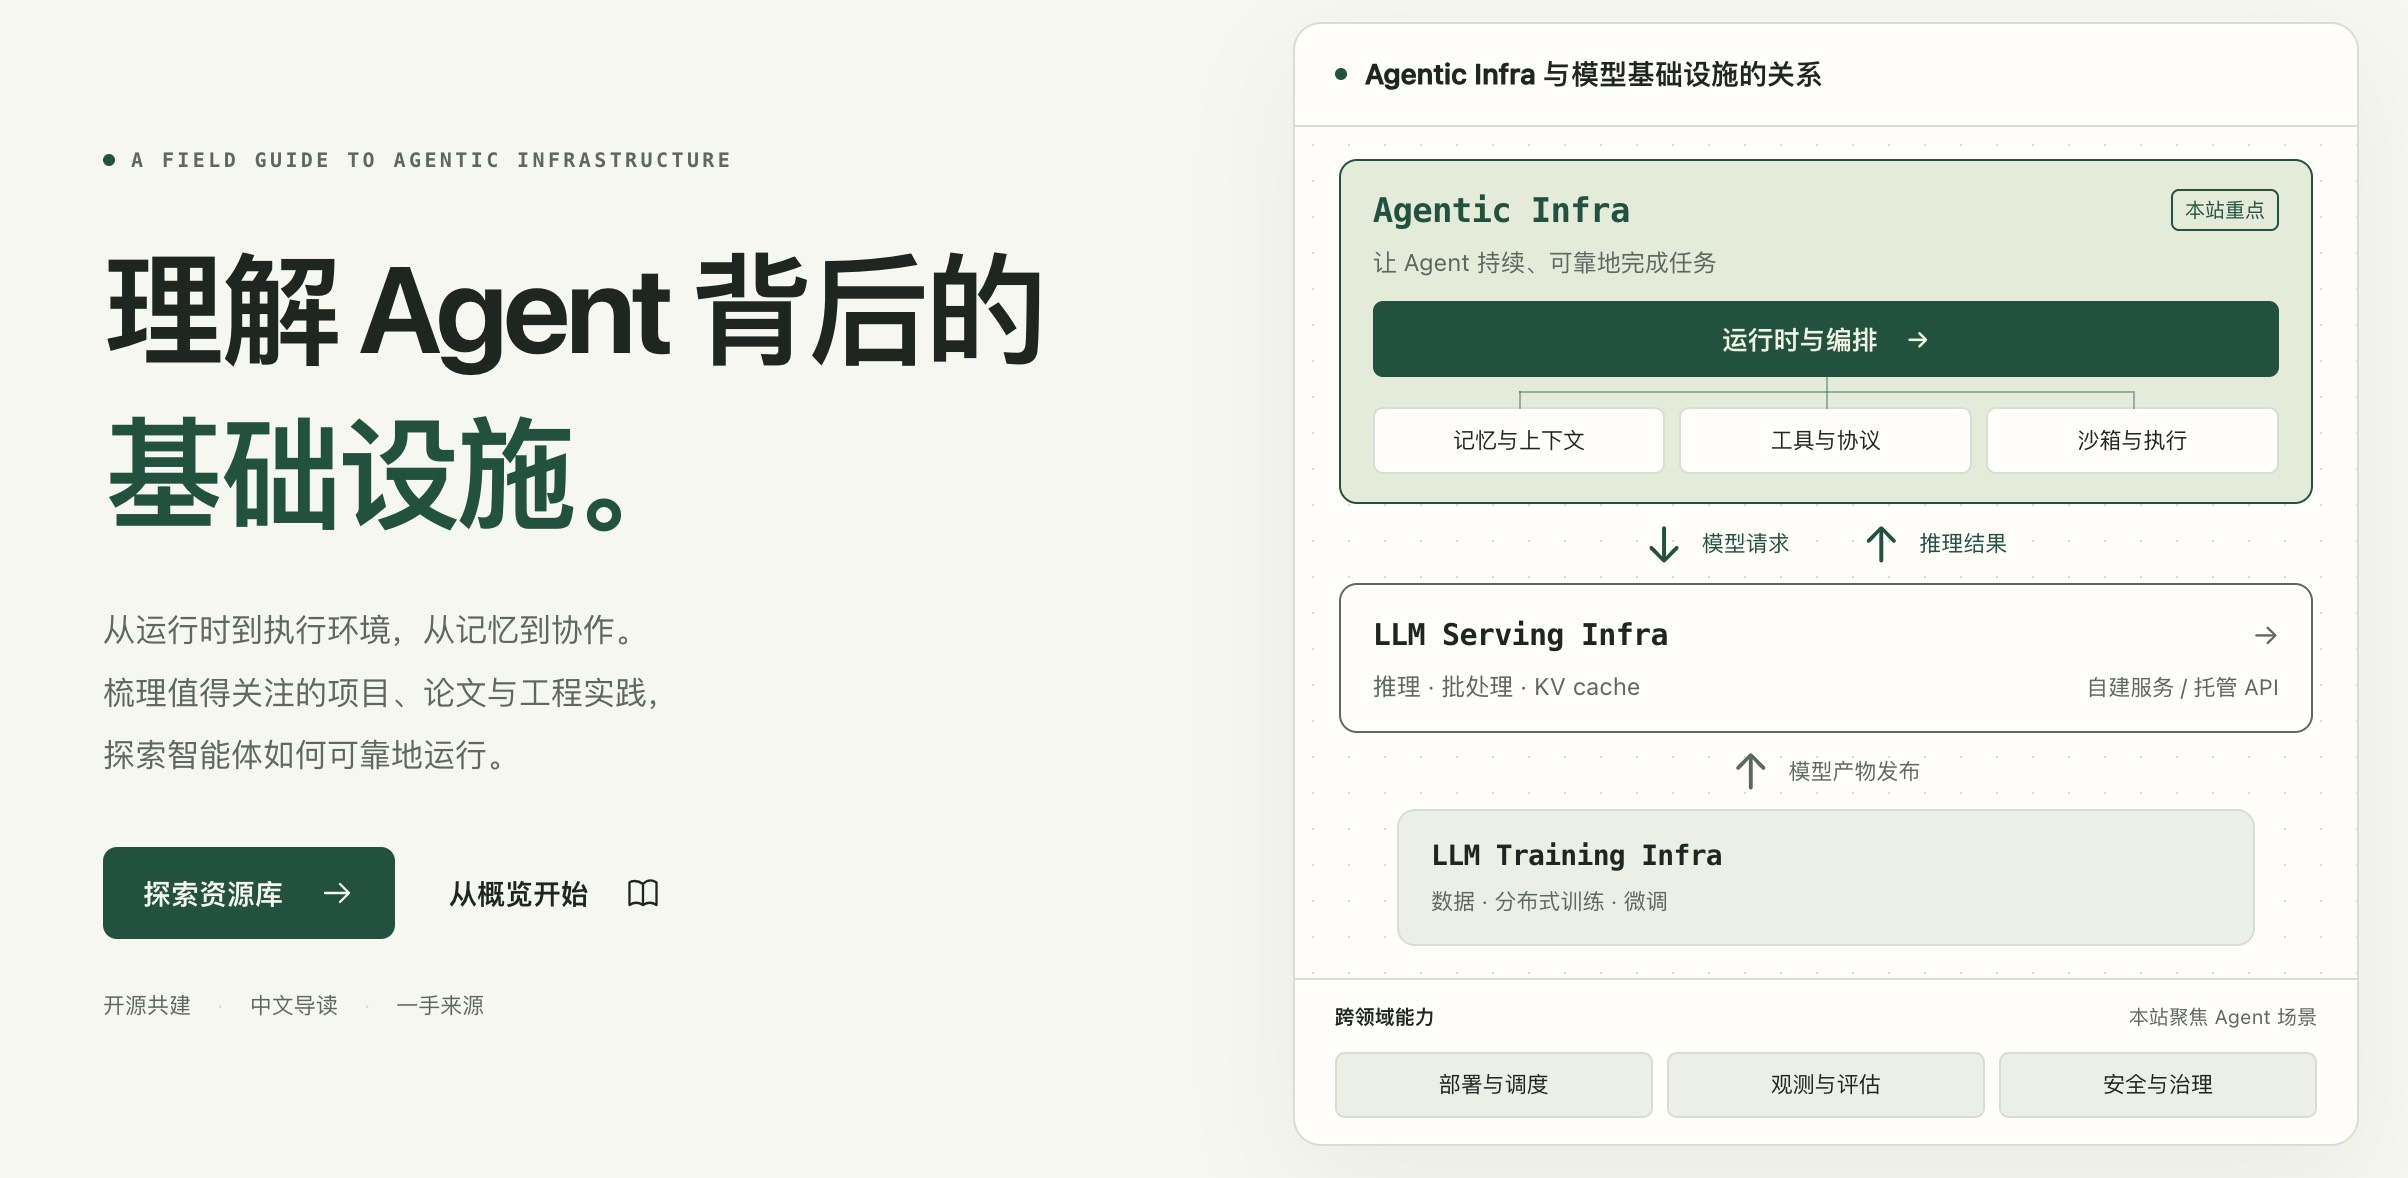
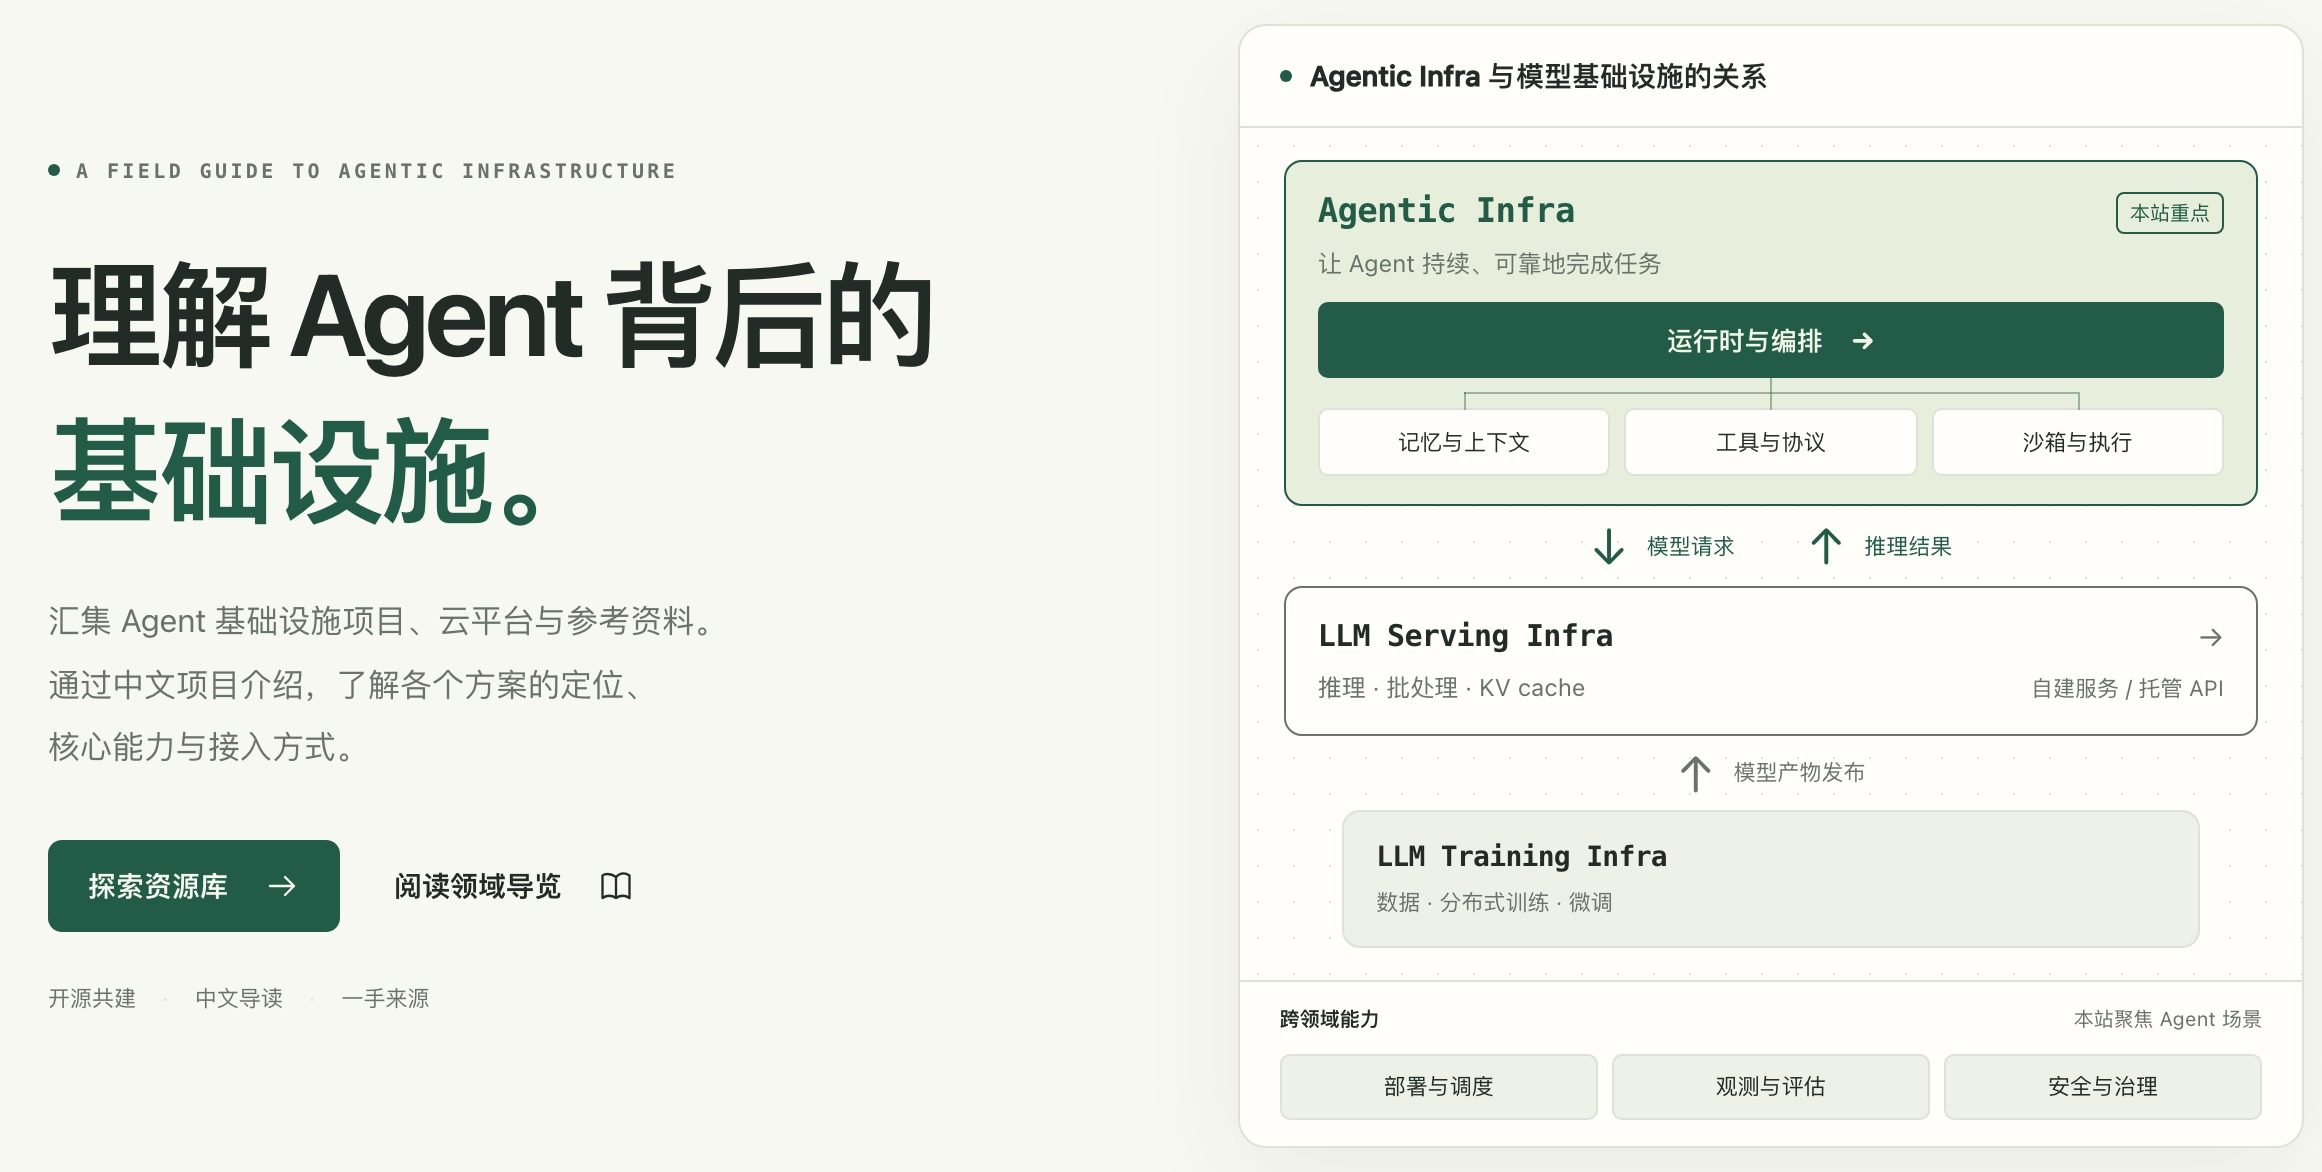
docs: align homepage and README with project introductions

diff --git a/CHANGELOG.md b/CHANGELOG.md
@@ -21,6 +21,7 @@
 
 ### 站点改进
 
+- [首页](https://blog.kingwen.cn/awesome-agentic-infra/) 明确中文项目介绍的阅读入口，展示项目介绍数量并支持直接筛选项目与平台；[README](https://github.com/aweng126/awesome-agentic-infra/blob/main/README.md#where-to-start) 同步更新阅读路径与首页截图。
 - [资源库](https://blog.kingwen.cn/awesome-agentic-infra/resources/)、主题索引与全站搜索接入项目介绍页，保留官方资料直达入口。资源元数据与介绍集中维护，主题资源清单自动同步。
 - 主导航调整为首页、主题导航、资源库与 [更新日志](CHANGELOG.md)。首页突出主题与资源，增加最近更新；主题页先展示资源清单，再提供方案总览入口。[资源导览](notes/README.md) 保留已有访问地址。
 

diff --git a/README.md b/README.md
@@ -33,7 +33,7 @@ A curated guide to agentic infrastructure projects, platforms, papers, and docum
 ## Where to Start
 
 - 了解领域划分：[Agentic Infra 领域导览](notes/agentic-infra-overview.md)，查看三类基础设施的关系与主题导航。
-- 查找现有方案：[Agent Runtime 全景](notes/agent-runtime-landscape.md)，浏览开源框架、运行平台与云厂商产品的定位、主要能力和官方入口。
+- 查找具体方案：在 [资源库](https://blog.kingwen.cn/awesome-agentic-infra/resources/) 按主题或关键词筛选，阅读项目介绍；运行时方案的集中梳理见 [Agent Runtime 全景](notes/agent-runtime-landscape.md)。
 
 ## License
 
